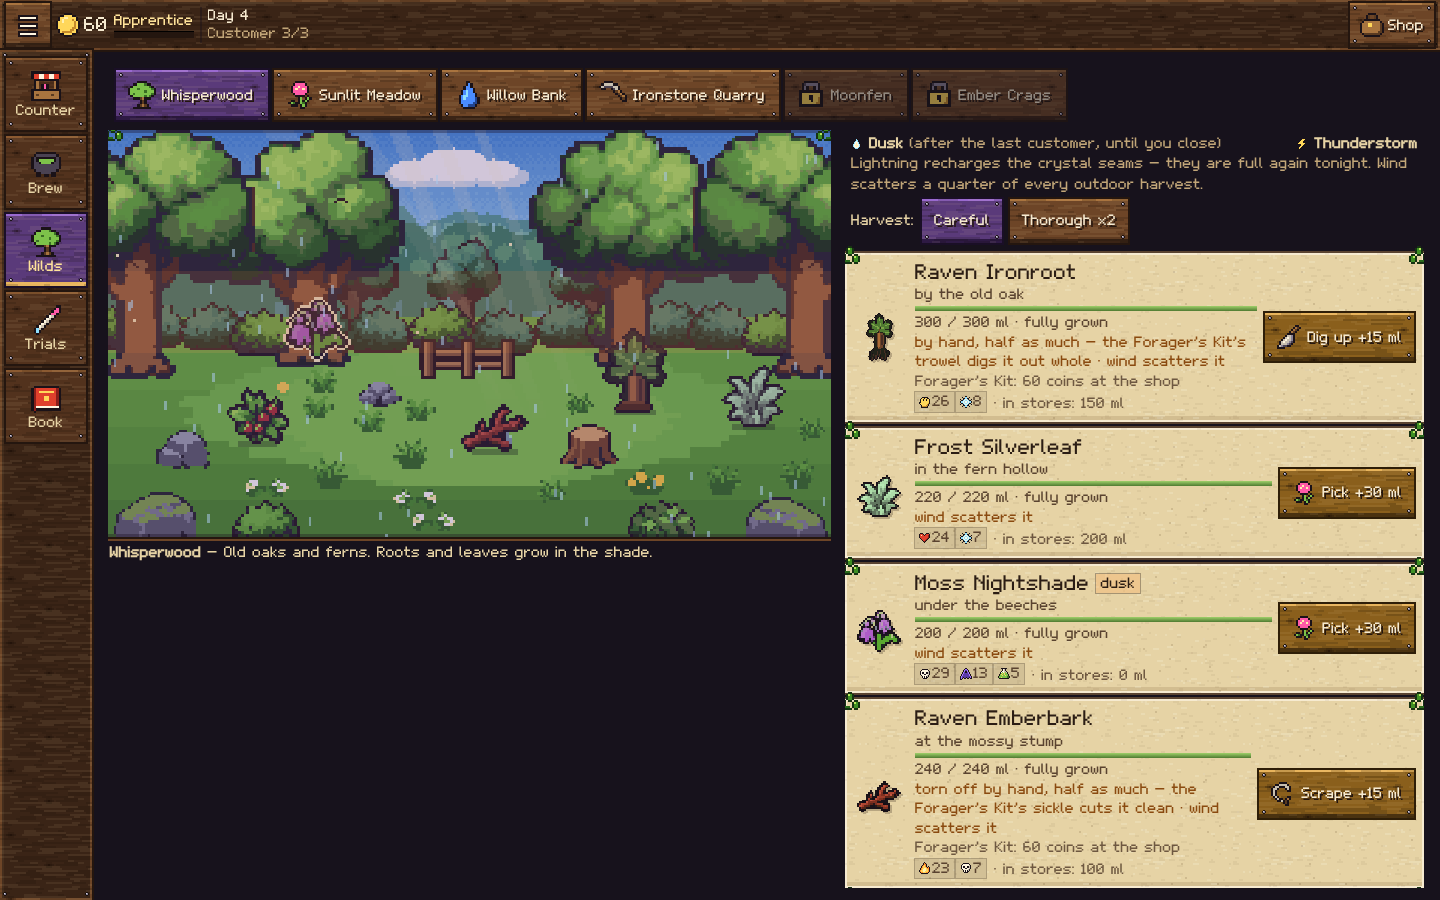
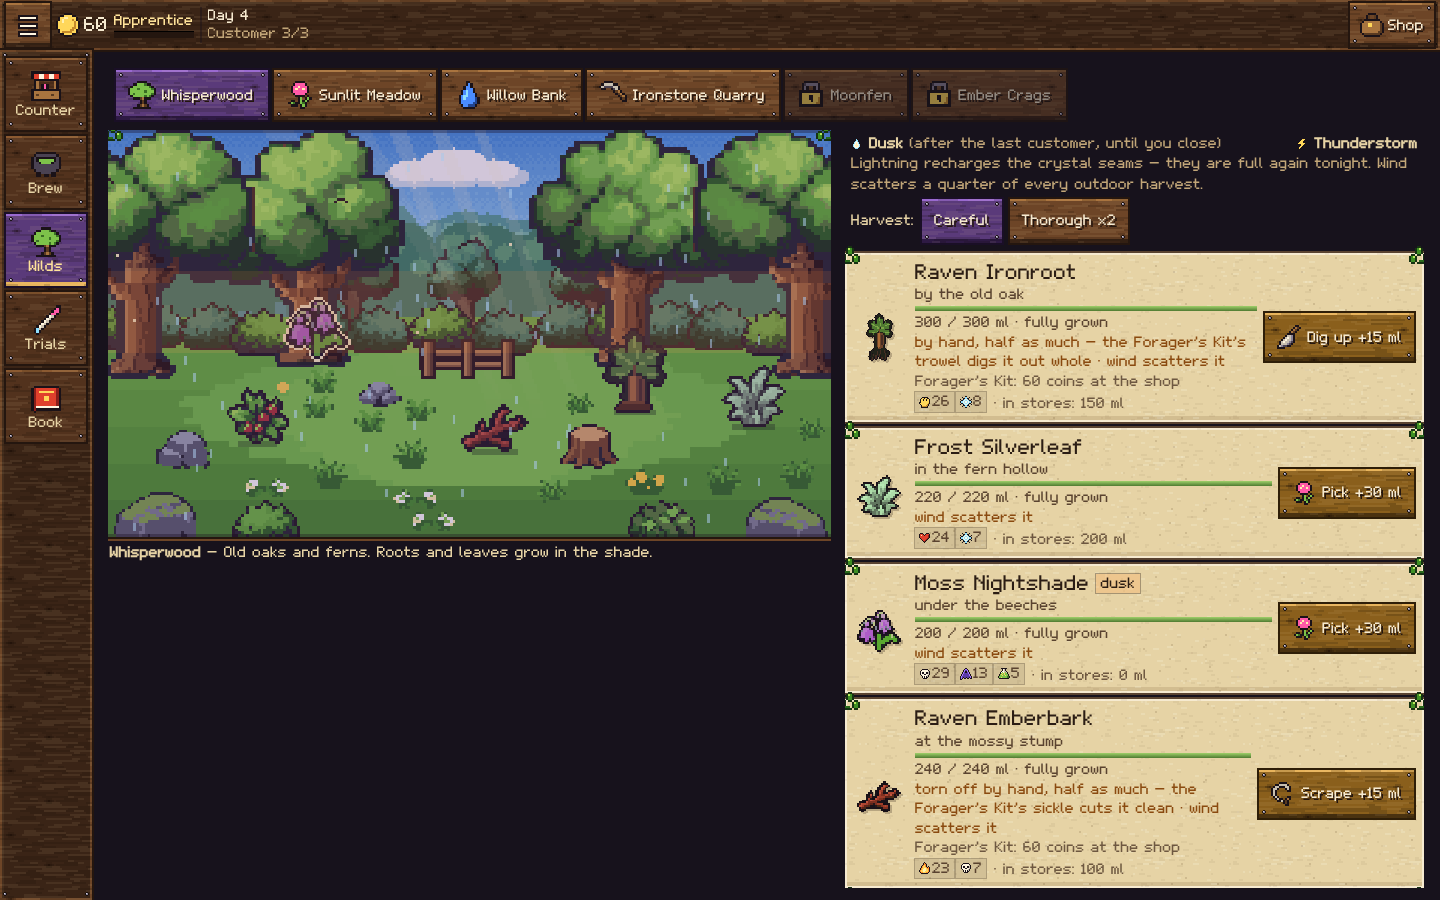
Whisperwood: shaded bark on the foreground oaks
The great oaks' trunks were flat two-tone brown. The atlas build now
re-shades each row of a trunk with the scene's bark ramp: lit from the
left (a light edge, then light, mid and dark bark), two long grooves
wavering down it with the odd break, and the crown's shade on the bark
just beneath it. The dark crevices inside a trunk are re-shaded with it;
the outline stays. The right-hand oaks are mirrored in the atlas rather
than at draw time, so their bark is lit from the left like the others.

Claude-Session: https://claude.ai/code/session_01GGTi3tG46v2dovbRMuuNuV

diff --git a/dist/app.0d9ac8e00b.js b/dist/app.0d9ac8e00b.js
@@ -13400,50 +13400,52 @@ return { CounterView };
 // src/rendering/whisperwood-atlas.js
 const __m68 = (() => {
 const ATLAS_URL = 'assets/whisperwood/atlas.png';
-const ATLAS_SIZE = [256, 187];
+const ATLAS_SIZE = [256, 262];
 const FRAMES = {
-buttercups: [33, 176, 14, 9],
-daisies: [87, 176, 15, 7],
-emberbark_hover: [210, 131, 26, 19],
-emberbark_idle: [0, 156, 26, 19],
-flower_bush_01: [134, 156, 24, 17],
-forest_bush_01: [159, 156, 24, 17],
-forest_bush_01_far: [184, 156, 24, 17],
-glint_0: [113, 176, 3, 3],
-glint_1: [103, 176, 4, 4],
-glint_2: [117, 176, 3, 3],
-glint_3: [108, 176, 4, 4],
-grass_tuft_01: [0, 176, 12, 11],
-grass_tuft_02: [64, 176, 10, 8],
-grass_tuft_03: [75, 176, 11, 8],
-gray_boulder: [231, 156, 19, 14],
-ironroot_card: [0, 90, 23, 40],
-ironroot_depleted: [116, 90, 25, 32],
-ironroot_hover: [142, 90, 25, 32],
-ironroot_idle: [168, 90, 25, 32],
-mandrake_hover: [52, 131, 28, 23],
-mandrake_idle: [81, 131, 28, 23],
-mossy_boulder: [77, 156, 29, 18],
-mossy_log: [107, 156, 26, 18],
-nightshade_hover: [110, 131, 24, 23],
-nightshade_idle: [135, 131, 24, 23],
-oak_round_01_far: [59, 90, 29, 33],
-oak_round_01_near: [88, 0, 75, 86],
-oak_round_02_far: [89, 90, 26, 33],
-oak_round_02_near: [164, 0, 70, 85],
-oak_wide_03_far: [24, 90, 34, 34],
+buttercups: [207, 235, 14, 9],
+daisies: [12, 254, 15, 7],
+emberbark_hover: [129, 211, 26, 19],
+emberbark_idle: [156, 211, 26, 19],
+flower_bush_01: [57, 235, 24, 17],
+forest_bush_01: [82, 235, 24, 17],
+forest_bush_01_far: [107, 235, 24, 17],
+glint_0: [38, 254, 3, 3],
+glint_1: [28, 254, 4, 4],
+glint_2: [42, 254, 3, 3],
+glint_3: [33, 254, 4, 4],
+grass_tuft_01: [174, 235, 12, 11],
+grass_tuft_02: [238, 235, 10, 8],
+grass_tuft_03: [0, 254, 11, 8],
+gray_boulder: [154, 235, 19, 14],
+ironroot_card: [147, 90, 23, 40],
+ironroot_depleted: [27, 177, 25, 32],
+ironroot_hover: [53, 177, 25, 32],
+ironroot_idle: [79, 177, 25, 32],
+mandrake_hover: [209, 177, 28, 23],
+mandrake_idle: [0, 211, 28, 23],
+mossy_boulder: [0, 235, 29, 18],
+mossy_log: [30, 235, 26, 18],
+nightshade_hover: [29, 211, 24, 23],
+nightshade_idle: [54, 211, 24, 23],
+oak_round_01_far: [206, 90, 29, 33],
+oak_round_01_near: [176, 0, 75, 86],
+oak_round_01_near_m: [0, 90, 75, 86],
+oak_round_02_far: [0, 177, 26, 33],
+oak_round_02_near: [76, 90, 70, 85],
+oak_wide_03_far: [171, 90, 34, 34],
 oak_wide_03_near: [0, 0, 87, 89],
-owlberry_hover: [160, 131, 24, 22],
-owlberry_idle: [185, 131, 24, 22],
-picked: [13, 176, 19, 11],
-silverleaf_depleted: [194, 90, 25, 24],
-silverleaf_harvesting: [220, 90, 25, 24],
-silverleaf_hover: [0, 131, 25, 24],
-silverleaf_idle: [26, 131, 25, 24],
-stone_cluster: [48, 176, 15, 9],
-tree_stump: [209, 156, 21, 16],
-witchear_hover: [27, 156, 24, 19],
-witchear_idle: [52, 156, 24, 19],
+oak_wide_03_near_m: [88, 0, 87, 89],
+owlberry_hover: [79, 211, 24, 22],
+owlberry_idle: [104, 211, 24, 22],
+picked: [187, 235, 19, 11],
+silverleaf_depleted: [105, 177, 25, 24],
+silverleaf_harvesting: [131, 177, 25, 24],
+silverleaf_hover: [157, 177, 25, 24],
+silverleaf_idle: [183, 177, 25, 24],
+stone_cluster: [222, 235, 15, 9],
+tree_stump: [132, 235, 21, 16],
+witchear_hover: [183, 211, 24, 19],
+witchear_idle: [208, 211, 24, 19],
 };
 return { ATLAS_URL, ATLAS_SIZE, FRAMES };
 })();
@@ -13830,9 +13832,9 @@ for (let i = 0; i < 3; i++) { const x0 = 100 + i * 15; for (let y = 0; y < 104; 
 for (let x = -4, i = 0; x < W + 12; x += rng.int(18, 24), i++) drawFrame(ctx, i % 3 ? 'forest_bush_01_far' : 'forest_bush_01', x, rng.int(77, 80), 1, i % 2 === 1);
 if (free(108, 72, 146, 88)) { fence(ctx, 112, 87, 3, 14); taken.push({ x0: 108, y0: 72, x1: 146, y1: 88 }); }
 drawFrame(ctx, 'oak_round_02_near', 70, 84);
-drawFrame(ctx, 'oak_round_01_near', 186, 84, 1, true);
+drawFrame(ctx, 'oak_round_01_near_m', 186, 84);
 drawFrame(ctx, 'oak_wide_03_near', 8, 88);
-drawFrame(ctx, 'oak_wide_03_near', 250, 88, 1, true);
+drawFrame(ctx, 'oak_wide_03_near_m', 250, 88);
 prop('flower_bush_01', [[48, 100], [36, 96], [70, 96]]);
 prop('forest_bush_01', [[226, 98], [212, 94], [242, 102]], true);
 prop('stone_cluster', [[146, 96], [96, 98], [160, 92]]);

diff --git a/src/rendering/whisperwood-atlas.js b/src/rendering/whisperwood-atlas.js
@@ -2,50 +2,52 @@
 // Frame rectangles [x, y, w, h] in assets/whisperwood/atlas.png (art pixels).
 
 export const ATLAS_URL = 'assets/whisperwood/atlas.png';
-export const ATLAS_SIZE = [256, 187];
+export const ATLAS_SIZE = [256, 262];
 
 /** @type {Record<string, [number, number, number, number]>} */
 export const FRAMES = {
-  buttercups: [33, 176, 14, 9],
-  daisies: [87, 176, 15, 7],
-  emberbark_hover: [210, 131, 26, 19],
-  emberbark_idle: [0, 156, 26, 19],
-  flower_bush_01: [134, 156, 24, 17],
-  forest_bush_01: [159, 156, 24, 17],
-  forest_bush_01_far: [184, 156, 24, 17],
-  glint_0: [113, 176, 3, 3],
-  glint_1: [103, 176, 4, 4],
-  glint_2: [117, 176, 3, 3],
-  glint_3: [108, 176, 4, 4],
-  grass_tuft_01: [0, 176, 12, 11],
-  grass_tuft_02: [64, 176, 10, 8],
-  grass_tuft_03: [75, 176, 11, 8],
-  gray_boulder: [231, 156, 19, 14],
-  ironroot_card: [0, 90, 23, 40],
-  ironroot_depleted: [116, 90, 25, 32],
-  ironroot_hover: [142, 90, 25, 32],
-  ironroot_idle: [168, 90, 25, 32],
-  mandrake_hover: [52, 131, 28, 23],
-  mandrake_idle: [81, 131, 28, 23],
-  mossy_boulder: [77, 156, 29, 18],
-  mossy_log: [107, 156, 26, 18],
-  nightshade_hover: [110, 131, 24, 23],
-  nightshade_idle: [135, 131, 24, 23],
-  oak_round_01_far: [59, 90, 29, 33],
-  oak_round_01_near: [88, 0, 75, 86],
-  oak_round_02_far: [89, 90, 26, 33],
-  oak_round_02_near: [164, 0, 70, 85],
-  oak_wide_03_far: [24, 90, 34, 34],
+  buttercups: [207, 235, 14, 9],
+  daisies: [12, 254, 15, 7],
+  emberbark_hover: [129, 211, 26, 19],
+  emberbark_idle: [156, 211, 26, 19],
+  flower_bush_01: [57, 235, 24, 17],
+  forest_bush_01: [82, 235, 24, 17],
+  forest_bush_01_far: [107, 235, 24, 17],
+  glint_0: [38, 254, 3, 3],
+  glint_1: [28, 254, 4, 4],
+  glint_2: [42, 254, 3, 3],
+  glint_3: [33, 254, 4, 4],
+  grass_tuft_01: [174, 235, 12, 11],
+  grass_tuft_02: [238, 235, 10, 8],
+  grass_tuft_03: [0, 254, 11, 8],
+  gray_boulder: [154, 235, 19, 14],
+  ironroot_card: [147, 90, 23, 40],
+  ironroot_depleted: [27, 177, 25, 32],
+  ironroot_hover: [53, 177, 25, 32],
+  ironroot_idle: [79, 177, 25, 32],
+  mandrake_hover: [209, 177, 28, 23],
+  mandrake_idle: [0, 211, 28, 23],
+  mossy_boulder: [0, 235, 29, 18],
+  mossy_log: [30, 235, 26, 18],
+  nightshade_hover: [29, 211, 24, 23],
+  nightshade_idle: [54, 211, 24, 23],
+  oak_round_01_far: [206, 90, 29, 33],
+  oak_round_01_near: [176, 0, 75, 86],
+  oak_round_01_near_m: [0, 90, 75, 86],
+  oak_round_02_far: [0, 177, 26, 33],
+  oak_round_02_near: [76, 90, 70, 85],
+  oak_wide_03_far: [171, 90, 34, 34],
   oak_wide_03_near: [0, 0, 87, 89],
-  owlberry_hover: [160, 131, 24, 22],
-  owlberry_idle: [185, 131, 24, 22],
-  picked: [13, 176, 19, 11],
-  silverleaf_depleted: [194, 90, 25, 24],
-  silverleaf_harvesting: [220, 90, 25, 24],
-  silverleaf_hover: [0, 131, 25, 24],
-  silverleaf_idle: [26, 131, 25, 24],
-  stone_cluster: [48, 176, 15, 9],
-  tree_stump: [209, 156, 21, 16],
-  witchear_hover: [27, 156, 24, 19],
-  witchear_idle: [52, 156, 24, 19],
+  oak_wide_03_near_m: [88, 0, 87, 89],
+  owlberry_hover: [79, 211, 24, 22],
+  owlberry_idle: [104, 211, 24, 22],
+  picked: [187, 235, 19, 11],
+  silverleaf_depleted: [105, 177, 25, 24],
+  silverleaf_harvesting: [131, 177, 25, 24],
+  silverleaf_hover: [157, 177, 25, 24],
+  silverleaf_idle: [183, 177, 25, 24],
+  stone_cluster: [222, 235, 15, 9],
+  tree_stump: [132, 235, 21, 16],
+  witchear_hover: [183, 211, 24, 19],
+  witchear_idle: [208, 211, 24, 19],
 };

diff --git a/src/rendering/regions.js b/src/rendering/regions.js
@@ -427,11 +427,12 @@ function forestSprites(ctx, rng, avoid) {
   for (let x = -4, i = 0; x < W + 12; x += rng.int(18, 24), i++) drawFrame(ctx, i % 3 ? 'forest_bush_01_far' : 'forest_bush_01', x, rng.int(77, 80), 1, i % 2 === 1);
   if (free(108, 72, 146, 88)) { fence(ctx, 112, 87, 3, 14); taken.push({ x0: 108, y0: 72, x1: 146, y1: 88 }); }
   // the great oaks framing the scene, in full detail, crowns running off the
-  // top of the frame; the inner pair first
+  // top of the frame; the inner pair first (the right-hand ones are mirrored
+  // in the atlas, so their bark stays lit from the left)
   drawFrame(ctx, 'oak_round_02_near', 70, 84);
-  drawFrame(ctx, 'oak_round_01_near', 186, 84, 1, true);
+  drawFrame(ctx, 'oak_round_01_near_m', 186, 84);
   drawFrame(ctx, 'oak_wide_03_near', 8, 88);
-  drawFrame(ctx, 'oak_wide_03_near', 250, 88, 1, true);
+  drawFrame(ctx, 'oak_wide_03_near_m', 250, 88);
   // shrubs, rocks, a stump and a log around the clearing
   prop('flower_bush_01', [[48, 100], [36, 96], [70, 96]]);
   prop('forest_bush_01', [[226, 98], [212, 94], [242, 102]], true);

diff --git a/dist/sw.js b/dist/sw.js
@@ -1,7 +1,7 @@
 // Service worker: cache-first offline support. The build script replaces
 // the asset list and version; in development it simply caches as it goes.
-const VERSION = '2.3.0-6e1dcffde7';
-const ASSETS = ["./","app.7fa1422b59.js","assets/fonts/alchemist-pixel.ttf","assets/icons/icon-192.png","assets/icons/icon-512.png","assets/whisperwood/atlas.png","index.html","manifest.webmanifest","styles/main.0a7a94f9e5.css"];
+const VERSION = '2.3.0-27b8d01591';
+const ASSETS = ["./","app.0d9ac8e00b.js","assets/fonts/alchemist-pixel.ttf","assets/icons/icon-192.png","assets/icons/icon-512.png","assets/whisperwood/atlas.png","index.html","manifest.webmanifest","styles/main.0a7a94f9e5.css"];
 // The origin may be shared — <owner>.github.io hosts every Pages site of an
 // account, and a branch deploy exposes this game both at the root and at
 // /dist/ — so cache names carry this worker's scope, and each worker only

diff --git a/dist/index.html b/dist/index.html
@@ -18,6 +18,6 @@
 <body>
   <div id="app"><div class="loading">Lighting the furnace…</div></div>
   <noscript><p style="color:#fff;padding:20px">The Alchemist's Shop needs JavaScript enabled.</p></noscript>
-  <script type="module" src="app.7fa1422b59.js"></script>
+  <script type="module" src="app.0d9ac8e00b.js"></script>
 </body>
 </html>

diff --git a/scripts/make-whisperwood.py b/scripts/make-whisperwood.py
@@ -22,6 +22,7 @@ Writes assets/whisperwood/atlas.png and src/rendering/whisperwood-atlas.js
 (the frame rectangles). `--preview out.png` also writes an enlarged sheet.
 """
 import colorsys
+import math
 import os
 import sys
 from collections import Counter
@@ -194,6 +195,53 @@ def bare_trunk(im):
     return out
 
 
+# bark, dark to light (rendering/regions.js OAKBARK)
+BARK = hexes('#1e1008', '#4a2a14', '#6e4220', '#94602e', '#b8844a', '#d8a868')
+
+
+def bark_texture(im, seed=0):
+    """Re-shade each row of a trunk: lit from the left (a light edge, then
+    light, mid and dark bark), two long grooves wavering down it, and the
+    shade of the crown on the bark just beneath it. A trunk's run includes
+    the dark crevices inside it; the outline stays."""
+    out = im.copy()
+    src, o = im.load(), out.load()
+    w, h = im.size
+    bark = lambda c: c[3] and c[0] > c[1] + 8 and c[0] > c[2] + 8
+    dark = lambda c: c[3] and 0.3 * c[0] + 0.59 * c[1] + 0.11 * c[2] < 60
+    leaf = lambda c: c[3] and c[1] > c[0] + 10
+    for y in range(h):
+        x = 0
+        while x < w:
+            if not bark(src[x, y]):
+                x += 1
+                continue
+            x0 = x
+            while x < w and (bark(src[x, y]) or (dark(src[x, y]) and any(bark(src[x + k, y]) for k in (1, 2) if x + k < w))):
+                x += 1
+            L = x - x0
+            if L < 4:
+                continue
+            tones = []
+            for xx in range(x0, x):
+                t = (xx - x0 + 0.5) / L
+                tone = 4 if t < 0.12 else 3 if t < 0.4 else 2 if t < 0.76 else 1
+                # in the crown's shade
+                if any(leaf(src[xx, y - k]) or (dark(src[xx, y - k]) and not bark(src[xx, y - k])) for k in range(1, 4) if y - k >= 0):
+                    tone -= 1
+                tones.append(tone)
+            if L >= 7:
+                for k, gt in enumerate((0.42, 0.7)):
+                    if (y + k * 5 + seed) % 11 == 0:
+                        continue
+                    gx = round(gt * L + math.sin(y * 0.22 + k * 2.4 + seed) * 1.1)
+                    if 1 <= gx < L - 1:
+                        tones[gx] = max(0, tones[gx] - 1)
+            for k, tone in enumerate(tones):
+                o[x0 + k, y] = (*BARK[max(0, tone)], 255)
+    return out
+
+
 def plant(im, keep=0.68):
     """Bury the lower part of a root in a mound of soil, so it grows out of the ground."""
     h = max(1, round(im.height * keep))
@@ -329,7 +377,11 @@ def build():
     for n in ('oak_round_01', 'oak_round_02', 'oak_wide_03'):
         S[n + '_far'] = clean(recolour(trim(down(load('sprites/trees/' + n))), far), FAR)
         src = load('sprites/trees/' + n)
-        S[n + '_near'] = bare_trunk(clean(recolour(trim(down(src.resize((src.width * 2, src.height * 2), Image.NEAREST), f=3, colours=20)), sunlit), SCENE))
+        near = bare_trunk(clean(recolour(trim(down(src.resize((src.width * 2, src.height * 2), Image.NEAREST), f=3, colours=20)), sunlit), SCENE))
+        S[n + '_near'] = bark_texture(near, seed=len(n))
+        # the mirrored oaks on the right are shaded after mirroring, so their bark is lit from the left too
+        if n != 'oak_round_02':
+            S[n + '_near_m'] = bark_texture(near.transpose(Image.Transpose.FLIP_LEFT_RIGHT), seed=len(n) + 3)
     for rel in ('bushes/forest_bush_01', 'bushes/flower_bush_01', 'rocks/mossy_boulder', 'rocks/gray_boulder',
                 'rocks/stone_cluster', 'props/tree_stump', 'props/mossy_log'):
         S[rel.split('/')[1]] = clean(trim(down(load('sprites/' + rel), colours=10)), SCENE)

diff --git a/README.md b/README.md
@@ -224,7 +224,7 @@ computed from the particles that actually run out of the tap. What a
   hutch with a hay rack, a thatched hide box and a fence, shaded rabbits,
   and wood-grain, parchment and nail textures on the interface.
 * **Whisperwood sprites:** the forest is composed from a small sprite atlas
-  (`assets/whisperwood/atlas.png`, 19 KB): trees, shrubs, rocks, a stump,
+  (`assets/whisperwood/atlas.png`, 24 KB): trees, shrubs, rocks, a stump,
   logs and wildflowers around the painted sky and clearing, and one
   outlined sprite per forest ingredient (Ironroot, Silverleaf, Nightshade,
   Owlberry, Emberbark, Witch’s Ear, Mandrake) with hover, harvesting and
